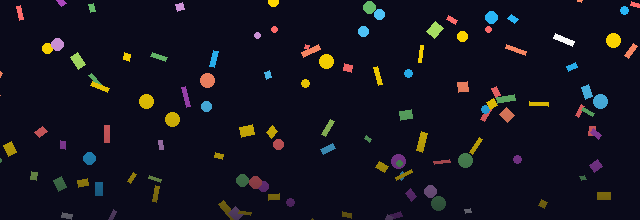
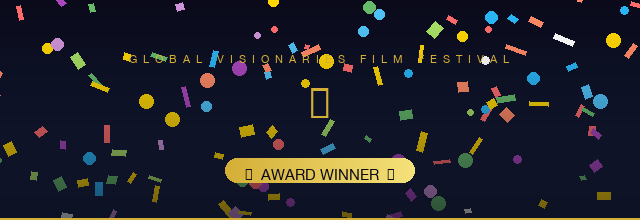
Pre-render full header image (confetti + text + badge) for Gmail compatibility
Gmail strips position:absolute/z-index so CSS overlay was broken.
Fix: Pillow now bakes confetti + GVFF label + star + gold badge into
one PNG. Template uses a plain <img src="cid:confetti_header"> — no
CSS tricks, renders correctly in all email clients.

diff --git a/projects/cinema_na_santa/templates/award_winner.html b/projects/cinema_na_santa/templates/award_winner.html
@@ -26,34 +26,6 @@ body{
   box-shadow:0 0 60px rgba(212,175,55,.25);
 }
 
-/* ── Confetti header ──────────────────────────────────────────────────────── */
-.confetti-zone{
-  position:relative;
-  height:220px;
-  background:linear-gradient(135deg,#0a0a1a 0%,#16213e 50%,#0a0a1a 100%);
-  overflow:hidden;
-  display:flex;
-  flex-direction:column;
-  align-items:center;
-  justify-content:center;
-  border-bottom:2px solid #d4af37;
-}
-
-/* ── Festival title inside header ─────────────────────────────────────────── */
-.fest-label{
-  font-family:Arial,sans-serif;
-  font-size:11px;letter-spacing:4px;text-transform:uppercase;
-  color:#d4af37;margin-bottom:10px;
-}
-.trophy{font-size:48px;line-height:1;margin-bottom:8px}
-.award-badge{
-  background:linear-gradient(135deg,#d4af37,#f5e27a,#d4af37);
-  color:#0a0a1a;
-  font-family:Arial,sans-serif;
-  font-size:13px;font-weight:700;letter-spacing:2px;text-transform:uppercase;
-  padding:6px 24px;border-radius:20px;
-}
-
 /* ── Recipient banner ─────────────────────────────────────────────────────── */
 .recipient-band{
   background:linear-gradient(90deg,#16213e,#1a1a3e,#16213e);
@@ -149,18 +121,11 @@ body{
 <body>
 <div class="wrap">
 
-  <!-- ── Confetti + header ── -->
-  <div class="confetti-zone">
-    <img src="cid:confetti_header"
-         alt=""
-         width="640"
-         style="display:block;width:100%;height:220px;object-fit:cover;position:absolute;top:0;left:0;z-index:0"/>
-    <div style="position:relative;z-index:1;display:flex;flex-direction:column;align-items:center;justify-content:center;height:100%">
-      <div class="fest-label">Global Visionaries Film Festival</div>
-      <div class="trophy">🏆</div>
-      <div class="award-badge">✦ Award Winner ✦</div>
-    </div>
-  </div>
+  <!-- ── Confetti header (single image — fully pre-rendered, no CSS tricks) ── -->
+  <img src="cid:confetti_header"
+       alt="Global Visionaries Film Festival — Award Winner"
+       width="640"
+       style="display:block;width:100%;max-width:640px;border:0;outline:none;text-decoration:none"/>
 
   <!-- ── Recipient banner ── -->
   <div class="recipient-band">

diff --git a/utils/generate_confetti.py b/utils/generate_confetti.py
@@ -1,14 +1,17 @@
 """
-Generates a static confetti header PNG for the Award Winner email
-and updates the template with the base64-encoded image.
+Generates the full Award Winner email header image:
+  - Dark navy gradient background
+  - Scattered coloured confetti pieces
+  - "GLOBAL VISIONARIES FILM FESTIVAL" label
+  - Trophy symbol
+  - Gold "AWARD WINNER" badge
 
-Run once (or whenever you want a fresh confetti layout):
+Run whenever you want to refresh:
     python utils/generate_confetti.py
 
 Output: projects/cinema_na_santa/assets/confetti_header.png
 """
 
-import base64
 import math
 import random
 import sys
@@ -16,10 +19,11 @@ from pathlib import Path
 
 sys.path.insert(0, str(Path(__file__).resolve().parents[1]))
 
-from PIL import Image, ImageDraw
+from PIL import Image, ImageDraw, ImageFont
 
-W, H   = 640, 220
-COLORS = [
+W, H = 640, 220
+
+CONFETTI_COLORS = [
     "#FFD700", "#FFD700", "#FFD700",
     "#FF6B6B", "#FF8A65",
     "#4FC3F7", "#29B6F6",
@@ -27,8 +31,13 @@ COLORS = [
     "#CE93D8", "#AB47BC",
     "#FFFFFF",
 ]
-BG     = (10, 10, 26)
-PIECES = 120
+
+FONT_PATHS = [
+    "/System/Library/Fonts/HelveticaNeue.ttc",
+    "/System/Library/Fonts/Helvetica.ttc",
+    "/System/Library/Fonts/ArialHB.ttc",
+    "/Library/Fonts/Arial Unicode.ttf",
+]
 
 
 def _hex(h: str) -> tuple:
@@ -36,24 +45,42 @@ def _hex(h: str) -> tuple:
     return tuple(int(h[i:i+2], 16) for i in (0, 2, 4))
 
 
+def _font(size: int) -> ImageFont.FreeTypeFont:
+    for path in FONT_PATHS:
+        try:
+            return ImageFont.truetype(path, size)
+        except Exception:
+            continue
+    return ImageFont.load_default()
+
+
 def _rotated_rect(draw, cx, cy, w, h, angle_deg, color):
     angle = math.radians(angle_deg)
     cos_a, sin_a = math.cos(angle), math.sin(angle)
     hw, hh = w / 2, h / 2
     corners = [(-hw, -hh), (hw, -hh), (hw, hh), (-hw, hh)]
-    pts = [(cx + x * cos_a - y * sin_a, cy + x * sin_a + y * cos_a) for x, y in corners]
+    pts = [(cx + x*cos_a - y*sin_a, cy + x*sin_a + y*cos_a) for x, y in corners]
     draw.polygon(pts, fill=color)
 
 
-def generate(output_path: str) -> str:
+def generate(output_path: str):
     random.seed(42)
-    img  = Image.new("RGB", (W, H), BG)
+    img  = Image.new("RGB", (W, H), (10, 10, 26))
     draw = ImageDraw.Draw(img)
 
-    for _ in range(PIECES):
+    # ── gradient background ───────────────────────────────────────────────────
+    for y in range(H):
+        t = y / H
+        r = int(10 + 12 * t)
+        g = int(10 + 23 * t)
+        b = int(26 + 36 * t)
+        draw.line([(0, y), (W, y)], fill=(r, g, b))
+
+    # ── confetti ──────────────────────────────────────────────────────────────
+    for _ in range(130):
         x     = random.randint(-10, W + 10)
         y     = random.randint(-10, H + 10)
-        color = _hex(random.choice(COLORS))
+        color = _hex(random.choice(CONFETTI_COLORS))
         shape = random.choice(["rect", "rect", "circle", "ribbon"])
         angle = random.randint(0, 360)
 
@@ -65,22 +92,72 @@ def generate(output_path: str) -> str:
         elif shape == "ribbon":
             _rotated_rect(draw, x, y, random.randint(3, 6), random.randint(12, 22), angle, color)
 
-    # Dark gradient overlay so bottom text stays readable
-    for row in range(H):
-        alpha   = int(180 * (row / H) ** 2)
-        overlay = Image.new("RGBA", (W, 1), (10, 10, 26, alpha))
-        img.paste(overlay, (0, row), overlay.convert("RGBA"))
+    # ── dark vignette so text stays readable ──────────────────────────────────
+    vignette = Image.new("RGBA", (W, H), (0, 0, 0, 0))
+    vd = ImageDraw.Draw(vignette)
+    for y in range(H):
+        alpha = int(160 * (y / H) ** 1.5)
+        vd.line([(0, y), (W, y)], fill=(8, 8, 20, alpha))
+    img = Image.alpha_composite(img.convert("RGBA"), vignette).convert("RGB")
+    draw = ImageDraw.Draw(img)
+
+    # ── "GLOBAL VISIONARIES FILM FESTIVAL" label ──────────────────────────────
+    lbl_font = _font(11)
+    label    = "GLOBAL VISIONARIES FILM FESTIVAL"
+    # letter-spaced manually
+    spaced   = "  ".join(label)
+    bb       = draw.textbbox((0, 0), spaced, font=lbl_font)
+    lx       = (W - (bb[2] - bb[0])) // 2
+    draw.text((lx, 52), spaced, font=lbl_font, fill=(212, 175, 55))
+
+    # ── trophy text ───────────────────────────────────────────────────────────
+    trophy_font = _font(42)
+    trophy_text = "★"
+    tb = draw.textbbox((0, 0), trophy_text, font=trophy_font)
+    tx = (W - (tb[2] - tb[0])) // 2
+    draw.text((tx, 78), trophy_text, font=trophy_font, fill=(212, 175, 55))
+
+    # ── gold "AWARD WINNER" badge ─────────────────────────────────────────────
+    badge_font  = _font(15)
+    badge_text  = "  ✦  AWARD WINNER  ✦  "
+    bb2         = draw.textbbox((0, 0), badge_text, font=badge_font)
+    bw          = bb2[2] - bb2[0] + 24
+    bh          = bb2[3] - bb2[1] + 14
+    bx          = (W - bw) // 2
+    by          = 158
+
+    # gold gradient fill for badge
+    badge_img = Image.new("RGB", (bw, bh), (212, 175, 55))
+    bd = ImageDraw.Draw(badge_img)
+    for gx in range(bw):
+        t = gx / bw
+        r = int(212 + (245 - 212) * t)
+        g = int(175 + (226 - 175) * t)
+        b = int(55  + (122 - 55)  * t)
+        bd.line([(gx, 0), (gx, bh)], fill=(r, g, b))
+
+    # rounded corners mask
+    mask = Image.new("L", (bw, bh), 0)
+    md   = ImageDraw.Draw(mask)
+    md.rounded_rectangle([0, 0, bw-1, bh-1], radius=bh//2, fill=255)
+
+    img.paste(badge_img, (bx, by), mask)
+
+    # badge text
+    draw.text((bx + 12, by + 7), badge_text, font=badge_font, fill=(10, 10, 26))
+
+    # ── gold bottom border line ───────────────────────────────────────────────
+    draw.line([(0, H-2), (W, H-2)], fill=(212, 175, 55), width=2)
 
     out = Path(output_path)
     out.parent.mkdir(parents=True, exist_ok=True)
     img.save(str(out), "PNG", optimize=True)
-    print(f"Saved → {out}  ({out.stat().st_size} bytes)")
+    size_kb = out.stat().st_size // 1024
+    print(f"Header image saved → {out}  ({size_kb} KB)")
     return str(out)
 
 
 if __name__ == "__main__":
     path = generate("projects/cinema_na_santa/assets/confetti_header.png")
-    # Print base64 size so you know the embed size
-    data = Path(path).read_bytes()
-    b64  = base64.b64encode(data).decode()
-    print(f"Base64 length: {len(b64)} chars (~{len(b64)//1024} KB in email)")
+    img  = Image.open(path)
+    img.show()